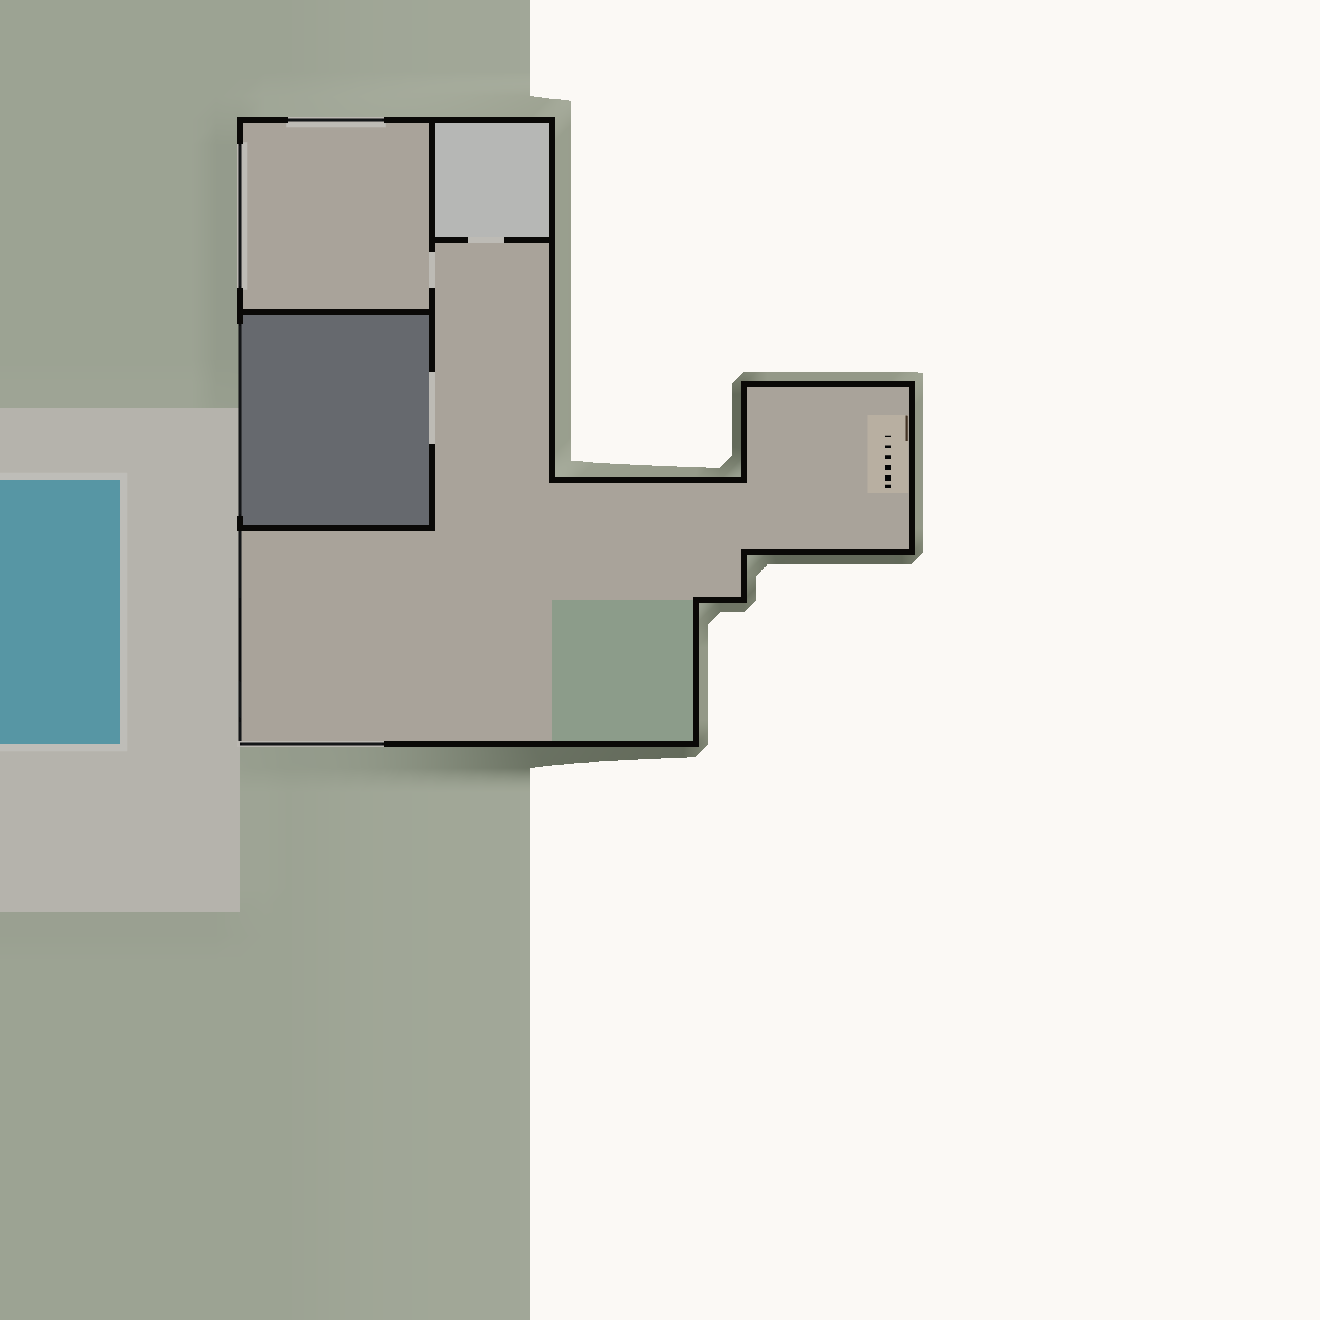
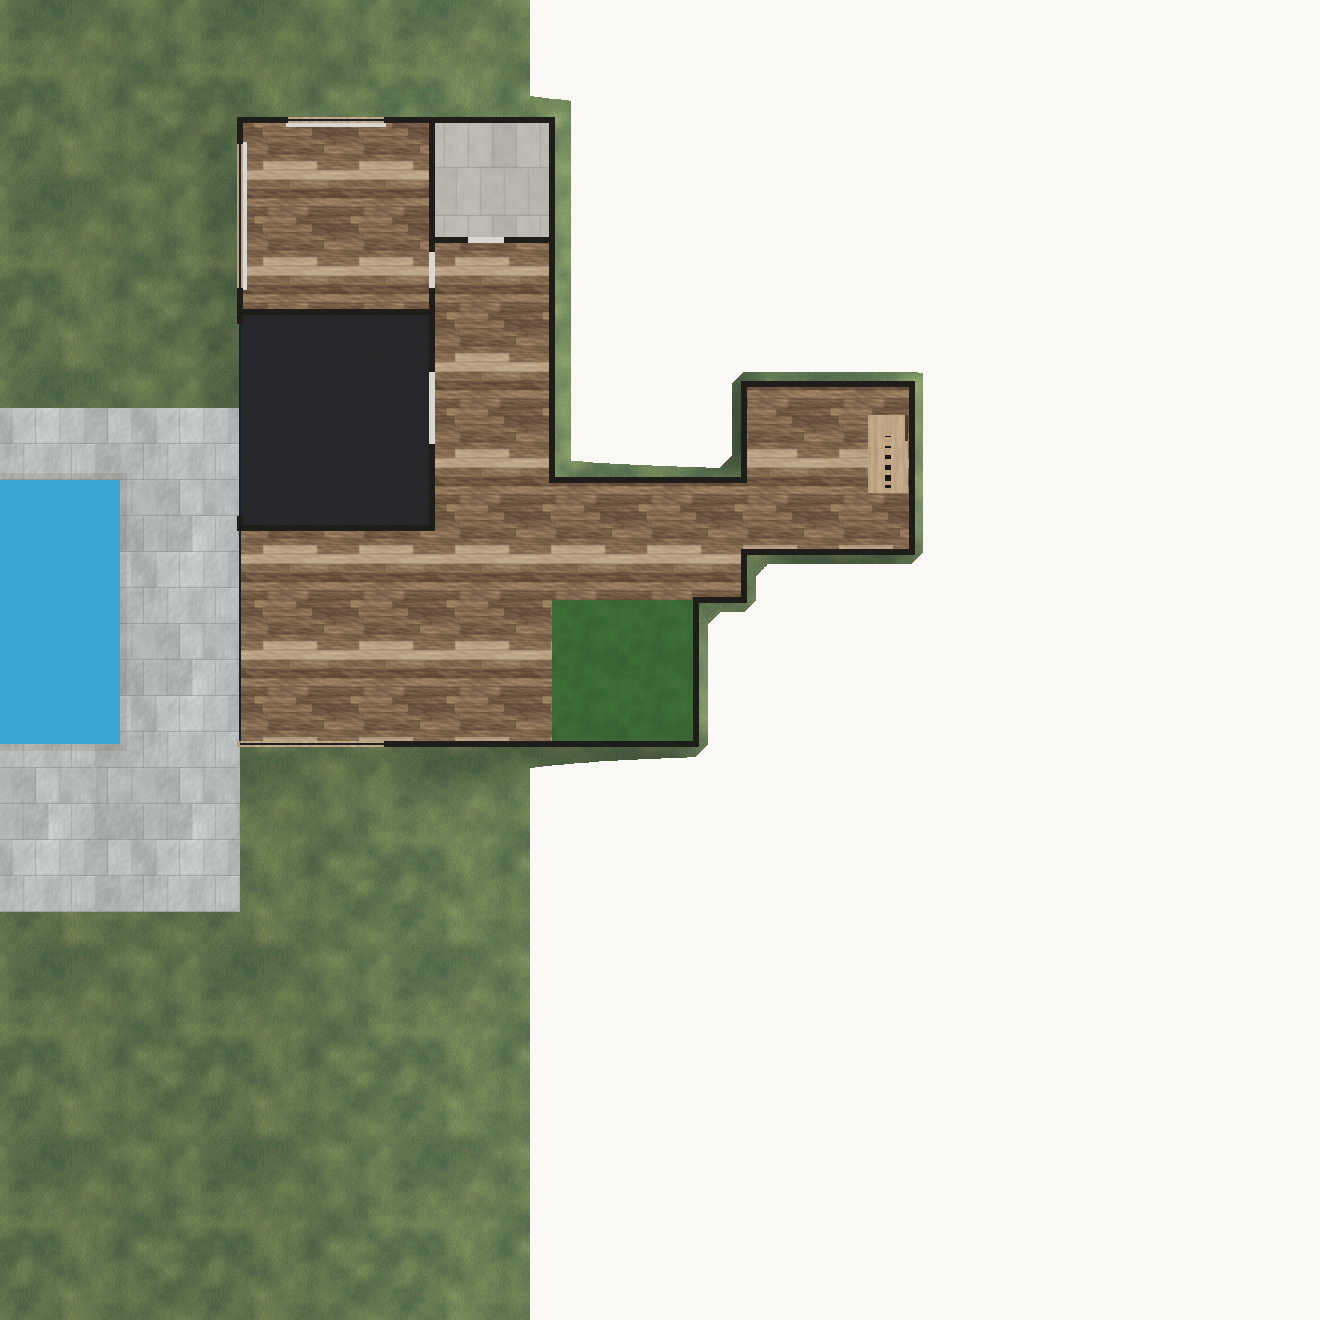
Bluff House Stage 3: proof frames, clipping fix, tour video recorder
- Ten fixed views at Noon/Golden/Night: 0 Inf/NaN pixels, <= 0.73% clipped,
  52-112 draw calls; 640x360 baselines for regression checks
- Soft S-curve after AgX instead of a linear contrast boost (no clipping)
- Ceilings sit 0.04 ft under the roof slab (fixes z-fighting)
- tests/record.spec.ts renders the guided tour to MP4 with fixed steps,
  sim-time caption fades and still-frame reuse
- PROGRESS.md: Stage 3 build notes, proof, decisions, known issues

Claude-Session: https://claude.ai/code/session_019C8vBENJ1C2XeErg2TWZha

diff --git a/bluff-house/src/test-api.ts b/bluff-house/src/test-api.ts
@@ -49,6 +49,8 @@ export function installTestApi(d: Deps) {
     const room = built.plan.roomAt(L, player.x, player.z);
     return { x: player.x, z: player.z, feet: player.feet, yaw: player.yaw, level: L, room: room?.id ?? null };
   };
+  let filmLast: number[] | null = null;
+  let filmCanvas: HTMLCanvasElement | null = null;
   const api = {
     ready: true,
     sqft: d.squareFootage,
@@ -187,6 +189,7 @@ export function installTestApi(d: Deps) {
     /** 0 = normal, 1 = AO only, 2 = no AO (debug views). */
     aoMode: (m: number) => { d.post.ao.configuration.renderMode = m === 2 ? 0 : m; d.post.ao.enabled = m !== 2; },
     lightCounts: () => d.interior.counts,
+    post: () => d.post,
     /**
      * Renders a fixed view at a given clock time and returns the image plus a health check:
      * pure-black pixels (NaN / bloom black squares), clipped pixels (blown highlights), mean luminance.
@@ -227,6 +230,60 @@ export function installTestApi(d: Deps) {
       let nanInf = 0;
       for (let i = 0; i < hdr.length; i += 4) if ((hdr[i] & 0x7c00) === 0x7c00 || (hdr[i + 1] & 0x7c00) === 0x7c00 || (hdr[i + 2] & 0x7c00) === 0x7c00) nanInf++;
       return { url, black: black / n, clipped: clipped / n, nanInf, meanLum: lum / n / 255, exposure: d.time.exposure, sunEl: d.time.sun.elevation, calls, tris };
+    },
+    /**
+     * Video recording (tests/record.spec.ts): measures the tour's length with a fixed-step dry run,
+     * restarts it, sets the clock and frame size, and hides the controls (the room captions stay).
+     */
+    filmBegin(w: number, h: number, hour: number) {
+      const dry = api.simTour(1 / 30);
+      d.time.set(hour);
+      setSize(w, h);
+      for (const sel of ['.dock', '#chip', '#hkey', '#cross', '#labels', '#loader']) document.querySelectorAll<HTMLElement>(sel).forEach((e) => (e.style.display = 'none'));
+      d.caption.film = true;
+      d.director.restart();
+      filmLast = null;
+      d.renderSettled();
+      return { seconds: dry.seconds as number };
+    },
+    /** Advances the simulation k fixed steps without rendering (resuming an interrupted recording). */
+    filmSkip(k: number, dt: number) { for (let i = 0; i < k; i++) d.step(dt); filmLast = null; },
+    /**
+     * One video frame: a fixed simulation step, then the full post-processed render with the room
+     * caption drawn on top, returned as a JPEG. When nothing on screen changed (the camera resting
+     * at a stop) it returns { same: true } and the recorder repeats the previous frame instead.
+     */
+    filmFrame(dt: number) {
+      d.step(dt);
+      const hud = document.getElementById('hud')!;
+      const key = [...rig.camera.matrixWorld.elements, d.time.exposure, +(hud.style.opacity || 0)];
+      const changed = !filmLast || rig.renderer.shadowMap.needsUpdate || key.some((v, i) => Math.abs(v - filmLast![i]) > 1e-5);
+      if (!changed) return { same: true };
+      filmLast = key;
+      d.post.render(dt);
+      const gl = rig.renderer.domElement;
+      filmCanvas ??= document.createElement('canvas');
+      filmCanvas.width = gl.width; filmCanvas.height = gl.height;
+      const g = filmCanvas.getContext('2d')!;
+      g.drawImage(gl, 0, 0);
+      const alpha = +(hud.style.opacity || 0);
+      if (alpha > 0.001) {
+        // the caption, drawn from the live DOM's own text, fonts and layout
+        g.save();
+        g.globalAlpha = alpha;
+        g.shadowColor = 'rgba(0,0,0,0.5)'; g.shadowBlur = 16; g.shadowOffsetY = 1;
+        g.textBaseline = 'middle';
+        for (const el of Array.from(hud.children) as HTMLElement[]) {
+          const cs = getComputedStyle(el), r = el.getBoundingClientRect();
+          g.font = `${cs.fontWeight} ${cs.fontSize} ${cs.fontFamily}`;
+          (g as CanvasRenderingContext2D & { letterSpacing: string }).letterSpacing = cs.letterSpacing === 'normal' ? '0px' : cs.letterSpacing;
+          g.fillStyle = cs.color;
+          const text = cs.textTransform === 'uppercase' ? (el.textContent ?? '').toUpperCase() : el.textContent ?? '';
+          g.fillText(text, r.left, r.top + r.height / 2);
+        }
+        g.restore();
+      }
+      return { same: false, url: filmCanvas.toDataURL('image/jpeg', 0.93) };
     },
     info() { return { calls: rig.renderer.info.render.calls, tris: rig.renderer.info.render.triangles }; },
     /** Runs level culling for the current position and reports which interior groups are drawn. */

diff --git a/bluff-house/tests/record.spec.ts b/bluff-house/tests/record.spec.ts
@@ -1,0 +1,55 @@
+import { test } from '@playwright/test';
+import { execSync } from 'node:child_process';
+import fs from 'node:fs';
+import path from 'node:path';
+import { openApp, ROOT, saveDataUrl, type App } from './helpers';
+
+declare global { interface Window { __app: App } }
+
+/**
+ * Records the guided tour as a video: the app is stepped with a fixed 1/FPS timestep (so the
+ * film is perfectly smooth no matter how slow each software-rendered frame is), every frame is
+ * read off the canvas with the room caption drawn on, and ffmpeg encodes the result.
+ *
+ *   RECORD=1 pnpm exec playwright test tests/record.spec.ts
+ *
+ * Env: HOUR (clock time, default 16.75), FPS (30), W×H (960×540: software rendering costs ~2 s a frame), START (frame to resume from),
+ * FRAMES (dir for the frames), OUT (mp4 path), LIMIT (stop after this many frames, for a preview).
+ * Frames already on disk are kept, so an interrupted run resumes where it stopped.
+ */
+const FPS = +(process.env.FPS ?? 30);
+const W = +(process.env.W ?? 960), H = +(process.env.H ?? 540);
+const HOUR = +(process.env.HOUR ?? 16.75);
+const FRAMES = process.env.FRAMES ?? path.join(ROOT, 'video', 'frames');
+const OUT = process.env.OUT ?? path.join(ROOT, 'video', 'bluff-house-tour.mp4');
+
+test('record the guided tour', async ({ page }) => {
+  test.skip(!process.env.RECORD, 'set RECORD=1 to record the tour video');
+  test.setTimeout(24 * 3600_000);
+  await page.setViewportSize({ width: W, height: H });
+  await openApp(page);
+  fs.mkdirSync(FRAMES, { recursive: true });
+  const total = await page.evaluate(([w, h, hour]) => window.__app.filmBegin(w, h, hour), [W, H, HOUR] as const);
+  const n = Math.min(Math.ceil(total.seconds * FPS), +(process.env.LIMIT ?? Infinity)); // LIMIT: short preview
+  const start = +(process.env.START ?? fs.readdirSync(FRAMES).filter((f) => f.endsWith('.jpg')).length);
+  console.log(`tour ${total.seconds.toFixed(1)} s → ${n} frames at ${FPS} fps, starting at ${start}`);
+  // fast-forward (simulation only, no rendering) to the first frame still missing
+  if (start > 0) await page.evaluate(([k, dt]) => window.__app.filmSkip(k, dt), [start, 1 / FPS] as const);
+  const t0 = Date.now();
+  let reused = 0;
+  for (let i = start; i < n; i++) {
+    const f = await page.evaluate((dt) => window.__app.filmFrame(dt), 1 / FPS);
+    const file = path.join(FRAMES, `${String(i).padStart(5, '0')}.jpg`);
+    if (f.same && i > 0) { fs.copyFileSync(path.join(FRAMES, `${String(i - 1).padStart(5, '0')}.jpg`), file); reused++; }
+    else saveDataUrl(file, f.url);
+    if (i % 150 === 0) {
+      const per = (Date.now() - t0) / (i - start + 1);
+      console.log(`frame ${i}/${n}  ${(per / 1000).toFixed(2)} s/frame (${reused} still frames reused)  ~${(((n - i) * per) / 60000).toFixed(0)} min left`);
+    }
+  }
+  fs.mkdirSync(path.dirname(OUT), { recursive: true });
+  // 1 s fade in and 1.5 s fade out; yuv420p + faststart so it plays everywhere, including phones
+  const dur = n / FPS;
+  execSync(`ffmpeg -y -loglevel error -framerate ${FPS} -i "${FRAMES}/%05d.jpg" -vf "fade=in:st=0:d=1,fade=out:st=${(dur - 1.5).toFixed(2)}:d=1.5" -c:v libx264 -preset slow -crf 21 -pix_fmt yuv420p -movflags +faststart "${OUT}"`);
+  console.log(`wrote ${OUT} (${(fs.statSync(OUT).size / 1e6).toFixed(1)} MB)`);
+});

diff --git a/bluff-house/src/render/post.ts b/bluff-house/src/render/post.ts
@@ -1,5 +1,5 @@
 import * as THREE from 'three';
-import { BlendFunction, BloomEffect, BrightnessContrastEffect, Effect, EffectComposer, EffectPass, HueSaturationEffect, NoiseEffect, RenderPass, SMAAEffect, SMAAPreset, ToneMappingEffect, ToneMappingMode, VignetteEffect } from 'postprocessing';
+import { BlendFunction, BloomEffect, Effect, EffectComposer, EffectPass, HueSaturationEffect, NoiseEffect, RenderPass, SMAAEffect, SMAAPreset, ToneMappingEffect, ToneMappingMode, VignetteEffect } from 'postprocessing';
 // n8ao ships without type declarations
 // @ts-expect-error untyped module
 import { N8AOPostPass } from 'n8ao';
@@ -15,6 +15,21 @@ class ExposureEffect extends Effect {
   }
   get exposure() { return this.uniforms.get('exposure')!.value as number; }
   set exposure(v: number) { this.uniforms.get('exposure')!.value = v; }
+}
+
+/**
+ * Display-referred S-curve: adds midtone contrast but, unlike a linear contrast control, keeps
+ * black at 0 and white at 1 with a soft shoulder, so bright glass is never pushed into clipping.
+ */
+class SCurveEffect extends Effect {
+  constructor(amount: number) {
+    super('SCurveEffect', /* glsl */ `
+      uniform float amount;
+      void mainImage(const in vec4 inputColor, const in vec2 uv, out vec4 outputColor) {
+        vec3 c = clamp(inputColor.rgb, 0.0, 1.0);
+        outputColor = vec4(mix(c, c * c * (3.0 - 2.0 * c), amount), inputColor.a);
+      }`, { uniforms: new Map([['amount', new THREE.Uniform(amount)]]) });
+  }
 }
 
 export type ToneMap = 'agx' | 'aces';
@@ -66,9 +81,9 @@ export class Post {
     const vignette = new VignetteEffect({ offset: 0.32, darkness: 0.42 });
     const noise = new NoiseEffect({ premultiply: true, blendFunction: BlendFunction.SCREEN });
     noise.blendMode.opacity.value = 0.02; // ≤ 2% grain
-    // AgX is gentle on highlights (the windows stay readable) but flat; a touch of contrast and
-    // saturation after it brings back some of ACES's punch without its blown-out glass
-    const contrast = new BrightnessContrastEffect({ contrast: 0.07 });
+    // AgX is gentle on highlights (the windows stay readable) but flat; a soft S-curve and a little
+    // saturation after it bring back some of ACES's punch without its blown-out glass
+    const contrast = new SCurveEffect(0.3);
     const saturation = new HueSaturationEffect({ saturation: 0.08 });
     this.grade = new EffectPass(camera, this.exposure, this.bloom, this.tone, contrast, saturation, vignette, noise);
     this.composer.addPass(this.grade);

diff --git a/bluff-house/src/ui/caption.ts b/bluff-house/src/ui/caption.ts
@@ -11,11 +11,18 @@ export class Caption {
   private hideTimer = 0;
   /** Every place the caption has announced, in order (tests read this). */
   readonly log: string[] = [];
+  /**
+   * Film mode (video recording): fades run on simulation time instead of wall-clock timers and
+   * CSS transitions, so a frame-by-frame render shows the same fade it would live.
+   */
+  film = false;
+  private shownFor = 1e9;
 
   constructor(public holdMs = 2500) { this.root.classList.add('fade'); }
 
   /** Call every frame; a new place must persist for 0.25 s before it's announced (no flicker at doorways). */
   update(w: Where, dt: number) {
+    if (this.film) this.filmFade(dt);
     if (w.key === this.current) { this.pending = null; return; }
     if (!this.pending || this.pending.w.key !== w.key) this.pending = { w, t: 0 };
     this.pending.t += dt;
@@ -28,8 +35,20 @@ export class Caption {
     this.lv.textContent = w.level;
     this.nm.textContent = w.name;
     this.mt.textContent = w.meta;
+    this.shownFor = 0;
+    if (this.film) return;
     this.root.classList.remove('fade');
     clearTimeout(this.hideTimer);
     this.hideTimer = window.setTimeout(() => this.root.classList.add('fade'), this.holdMs);
+  }
+
+  private filmFade(dt: number) {
+    this.shownFor += dt;
+    const t = this.shownFor, hold = this.holdMs / 1000;
+    const a = t < 0.35 ? t / 0.35 : t < 0.35 + hold ? 1 : Math.max(0, 1 - (t - 0.35 - hold) / 0.6);
+    this.root.classList.remove('fade');
+    this.root.style.transition = 'none';
+    this.root.style.opacity = a.toFixed(3);
+    this.root.style.transform = `translateY(${(-4 * (1 - a)).toFixed(2)}px)`;
   }
 }

diff --git a/bluff-house/PROGRESS.md b/bluff-house/PROGRESS.md
@@ -1,13 +1,13 @@
 # Bluff House walkthrough: progress
 
-## Status: Stage 2 (Tour + UI) done, waiting for approval
+## Status: Stage 3 (Materials + realtime lighting) done, waiting for approval
 
 | Stage | Status |
 |---|---|
 | 1. Skeleton (clay geometry, collisions, stairs, level culling) | ✅ approved, proof in `proof/stage1/` |
-| 2. Tour + UI | ✅ done, proof in `proof/stage2/` |
-| 3. Materials + realtime lighting | ⏳ next |
-| 4. Furniture + exterior | — |
+| 2. Tour + UI | ✅ approved, proof in `proof/stage2/` |
+| 3. Materials + realtime lighting | ✅ done, proof in `proof/stage3/` |
+| 4. Furniture + exterior | ⏳ next |
 | 5. Baked GI + reflection probes | — |
 | 6. Performance + polish | — |
 | 7. Ship | — |
@@ -80,9 +80,52 @@
   - `shortcut-card.png`.
   - `live-tour-running.png`: the real render loop playing the tour.
 
-## Next (Stage 3: materials + realtime lighting)
+## Stage 3: what was built
 
-- PBR material library, physical sky + PMREM, tuned shadows, RectAreaLights in the big glass, the 8-light interior pool, post-processing (N8AO, SMAA, bloom, AgX vs ACES) and 10 fixed screenshots at Noon / Golden / Night.
+- **Materials** (`materials/library.ts`, `materials/procedural.ts`): one table of PBR materials, keyed by the wall and floor kinds in the JSON.
+  - Every texture (hickory, plaster, ledge stone, board-and-batten, oak, walnut, tile, slate, pavers, deck boards, standing seam, pool mosaic, grass) is generated in code: color, normal and roughness/AO maps, tiled in real feet.
+  - Floors and cabinetry are `MeshPhysicalMaterial` with clearcoat. Roughness never goes below **0.11** (lower overflows half-float and bloom turns it into black squares).
+  - **Glass:** a faint green body tint that grows at grazing angles, full-strength Fresnel reflection of the sky, and no shadow casting.
+- **Sky and environment** (`lighting/sky.ts`): the three.js physical Sky with its output clamped to **≤ 24**, light clouds and night stars. A PMREM environment map is rebuilt from it at most every **250 ms**, and only when the sun moves.
+- **Height fog** (`render/fog.ts`): it thickens toward the lake (−50 ft) and thins with height, so the valley hazes and the house stays crisp.
+- **Shadows:** a **4096** map, PCF soft (radius 2.5), a **±70 ft** box around the house, and `autoUpdate` off. They re-render only when the sun or the bookcase door moves.
+- **Interior light** (`lighting/interior.ts`, `fixtures.ts`, `interiorEnv.ts`). Light counts are fixed, so shaders never recompile while you walk.
+  - Hemisphere fill.
+  - **4 RectAreaLights** in the nearest big glass walls, driven by daylight.
+  - A pool of **8 shadowless 2700 K point lights** re-assigned every 250 ms to the nearest room fixtures.
+  - **Recessed cans:** 6.5 ft grid, instanced emissive discs in trim rings, so they bloom at night.
+  - A small "room" environment map, so interior surfaces reflect a warm room and a window instead of the open sky.
+- **Post-processing** (`render/post.ts`, pmndrs `postprocessing` + N8AO), in a half-float HDR chain: N8AO → exposure → bloom → tone map → grade → vignette + grain → SMAA.
+  - **N8AO:** half resolution on High. Its radius is a world-space 4 ft, so distant ridges get no AO and there are no dark ridge lines.
+  - **Bloom:** mipmap blur with threshold 1.1.
+  - **Tone mapping:** AgX by default, with ACES available for A/B.
+  - **Grade:** a soft S-curve and +8% saturation.
+  - **Grain:** 2%.
+- **Time of day** (`lighting/timeofday.ts`) moves everything together: sun, sky, PMREM, fog color and density, lake color, hemisphere, daylight through the glass, lamps on below ~3° of sun, and exposure (separate targets inside and outside, eased as you walk through a door).
+
+## Stage 3 proof (`pnpm test`: all passing)
+
+- `proof/stage3/contact-sheet.jpg`: the **10 fixed views × Noon / Golden / Night**, full-size frames in `proof/stage3/views/`.
+- `proof/stage3/health.csv`, from `tests/visual.spec.ts`, which checks every frame:
+  - **0 Inf/NaN pixels** in the HDR buffer in all 30 frames. This is the root cause of bloom "black squares", counted exactly.
+  - **Clipped (blown-out) pixels ≤ 0.73%** in every frame (the test fails above 3%). The worst frames are looking into the low sun through the west glass at 5:45 PM.
+  - **52–112 scene draw calls** and ~110k triangles per view (shadow pass not included).
+- Reviewed by eye for shadow acne, AO lines on distant ridges, floating objects and z-fighting. The review found z-fighting between the interior ceilings and the roof slab's underside (a sawtooth on the Study ceiling). Fixed by setting ceilings 0.04 ft lower.
+- `proof/stage3/tonemap-agx-left-aces-right.jpg`: AgX keeps the great-room glass readable at golden hour, while ACES blows it out. ACES is punchier at night.
+- `tests/baselines/stage3/`: these frames at 640×360 become the approved baselines once you OK this stage. Later stages fail if a view changes by more than MAE 6/255 without re-approval.
+
+## Next (Stage 4: furniture + exterior)
+
+- Furniture from `furnitureByRoom` (the Furnished toggle), the bluff planting and rock, the far shore, landscape lighting and the fire in the firebox.
+
+## Walkthrough video (`tests/record.spec.ts`)
+
+- `RECORD=1 pnpm exec playwright test tests/record.spec.ts` renders the guided tour to `video/bluff-house-tour.mp4` (git-ignored):
+  - a fixed 1/30 s step per frame, so it's perfectly smooth however slow each frame is to render;
+  - room captions drawn on, with fades on simulation time;
+  - frames where nothing changed are reused;
+  - resumable: frames already on disk are kept.
+- Software rendering costs ~2 s per 960×540 frame, so the full 6.4-minute tour takes a few hours headless. On a real GPU the same code would record in minutes.
 
 ## Decisions made (please confirm or overrule)
 
@@ -116,11 +159,25 @@
 11. **The stair glass starts 1 ft into flight A on the two lower levels.** The treads there are under a foot high, so there's no fall risk, and it keeps the turn onto the stair clear. On the top floor the guard still runs the full length of the well.
 12. **NOAA sun pulled forward from Stage 3.** The time slider needed a real sun. The physical sky and lighting are still Stage 3.
 
+### Stage 3 decisions
+
+13. **Procedural textures instead of downloaded CC0 sets.** This environment's network policy blocks the texture hosts (ambientCG, Poly Haven). Every material is generated in code at real-world scale.
+    - Swapping in photo-scanned sets later is a change to one table.
+    - To allow the hosts: environment menu → Edit → Network access → Allowed domains, then add `ambientcg.com`, `acg-download.struffelproductions.com`, `dl.polyhaven.org` and `api.polyhaven.com`.
+14. **AgX over ACES.** AgX keeps the glass walls and the lake readable when the sun is in frame. ACES clips them. A soft S-curve after AgX restores the punch without clipping; a linear contrast boost had pushed two golden frames past 3% clipped.
+15. **Interior environment stand-in.** Until Stage 5's baked lighting and box-projected probes, interior surfaces reflect a small generated "room" (warm floor, walls, a window that follows the sky, lamps at night) instead of the open sky. Otherwise every interior had a blue-white sheen.
+16. **AO limited by distance, not by a box.** N8AO's radius is a world-space 4 ft with distance falloff. Far terrain can't produce dark ridge lines, and no clipping box is needed.
+17. **Glass without a transmission pass.** It's a premultiplied blend with Fresnel reflection. A transmission pass would re-render the scene behind every pane, and the look is the same for clear architectural glass.
+18. **Recessed cans:** each can is an emissive disc that blooms. The "soft pool" under them comes from the pooled room lights (2.2 ft below the ceiling), not one light per can. 100+ real lights would be too many; Stage 5's bake gives each can its true pool.
+19. **Camera 10 (house from the dock).** The dock sits under a boathouse roof, and the ~56-ft, ~50° bluff hides everything below the top floor from the water's edge. The shot is taken from the foot of the bluff stairs, where only the top of the house clears the crest. **Proposal:** add an 11th view "house from the water" (a boat-height camera ~150 ft out) as the hero exterior.
+
 ## Known issues (to fix in later stages)
 
 - The terrain is a 2-ft grid, so a 2-ft sloped "trench" shows outside buried lower-level walls (Stage 4: finer grid near the house).
-- The sky is a flat color that follows the time of day. The physical sky and environment lighting are Stage 3.
 - Quality "Auto" equals "High" until the adaptive system in Stage 6. Medium and Low already change the pixel ratio and shadow-map size.
 - The loader bar is honest but trivial for now: there are no downloaded assets until Stage 4.
+- Some interior light leaks: the RectAreaLights and point lights have no shadows, so a little daylight or lamplight reaches surfaces it shouldn't (Stage 5's bake fixes this).
+- The bluff is plain grass, there's no far shore yet, and the firebox has no fire (Stage 4).
+- At night the view from the dock is almost black: there are no landscape or stair lights yet (Stage 4).
 - Headless frame rates are SwiftShader (software) numbers and say nothing about real GPU speed.
 - The interior draw-call counts include the shadow pass and stay under 250. They will grow with furniture (Stage 4).
